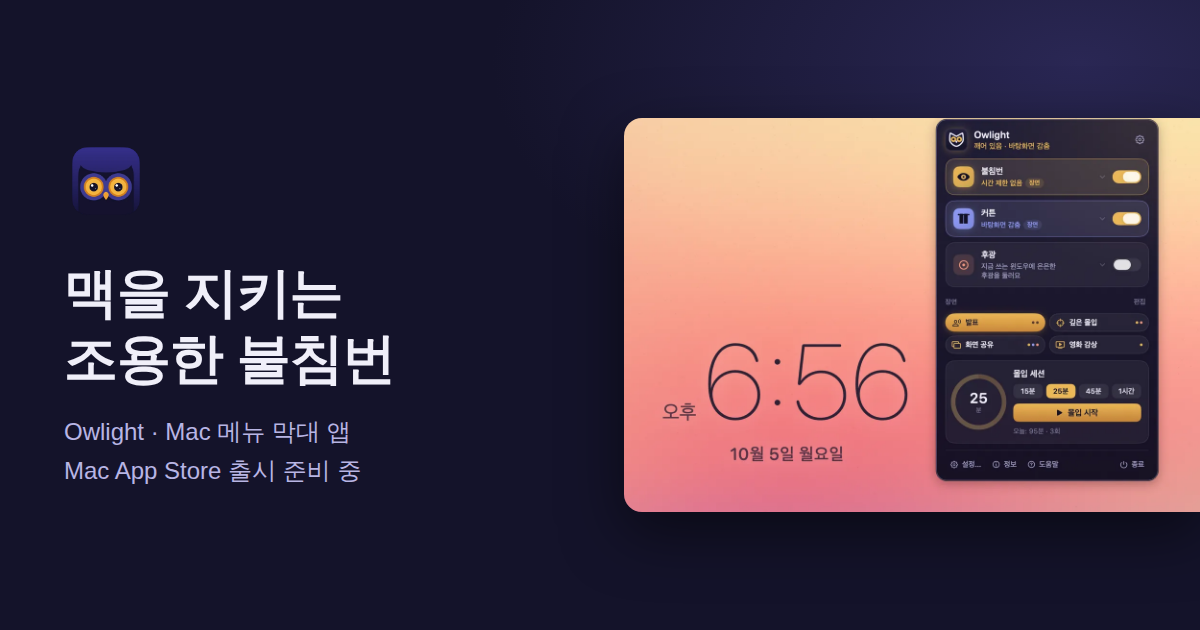
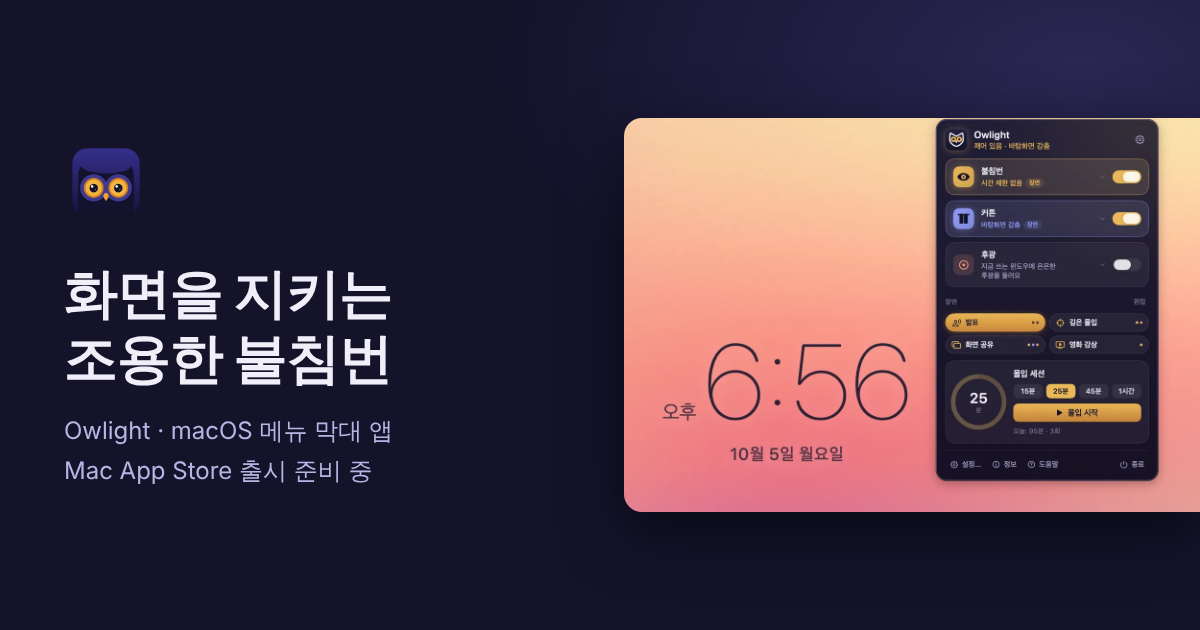
Owlight: Mac/맥 슬로건·소유격 문구를 App Store 메타데이터와 같게
App Store 심사 Guideline 5.2.5(Apple 상표)에 맞춰 부제를 '화면을 지키는 조용한 불침번' / 'A quiet night watch for you'로,
'맥·your Mac'은 컴퓨터·computer, 데이터 위치는 기기·device로 바꿈. owlight 소개·지원·방침,
lumenlab.page/owlight/ 지원·방침, 루멘랩 Owlight 카드·설명, 공유 사진(og.png) 포함.
Mac App Store, macOS 14 같은 사실 표기는 그대로.

Claude-Session: https://claude.ai/code/session_01EHCectJJ4WL5RY6tLHEwLo

Changed region(s): [[0.0617, 0.4222, 0.3392, 0.6032], [0.0308, 0.6635, 0.3392, 0.7841], [0.0617, 0.2714, 0.1233, 0.3317]]

diff --git a/owlight/index.html b/owlight/index.html
@@ -3,13 +3,13 @@
 <head>
 <meta charset="utf-8">
 <meta name="viewport" content="width=device-width, initial-scale=1, viewport-fit=cover">
-<title data-i18n="docTitle">Owlight · 맥을 지키는 조용한 불침번</title>
-<meta name="description" content="Owlight는 Mac 메뉴 막대 앱이에요. 맥이 잠들지 않게 깨워 두고(불침번), 바탕화면을 가리고(커튼), 지금 쓰는 창에만 빛을 비춰요(후광). 장면 하나로 한꺼번에 켜요. macOS 14 이상, US$5.99 한 번 구매, Mac App Store 출시 준비 중.">
+<title data-i18n="docTitle">Owlight · 화면을 지키는 조용한 불침번</title>
+<meta name="description" content="Owlight는 macOS 메뉴 막대 앱이에요. 컴퓨터가 잠들지 않게 깨워 두고(불침번), 바탕화면을 가리고(커튼), 지금 쓰는 창에만 빛을 비춰요(후광). 장면 하나로 한꺼번에 켜요. macOS 14 이상, US$5.99 한 번 구매, Mac App Store 출시 준비 중.">
 <link rel="canonical" href="https://owlight.lumenlab.page/">
 <meta property="og:type" content="website">
 <meta property="og:site_name" content="Owlight">
-<meta property="og:title" content="Owlight · 맥을 지키는 조용한 불침번">
-<meta property="og:description" content="메뉴 막대의 작은 부엉이가 맥을 깨워 두고, 바탕화면을 가리고, 지금 쓰는 창에만 빛을 비춰요. Mac App Store 출시 준비 중.">
+<meta property="og:title" content="Owlight · 화면을 지키는 조용한 불침번">
+<meta property="og:description" content="메뉴 막대의 작은 부엉이가 컴퓨터를 깨워 두고, 바탕화면을 가리고, 지금 쓰는 창에만 빛을 비춰요. Mac App Store 출시 준비 중.">
 <meta property="og:url" content="https://owlight.lumenlab.page/">
 <meta property="og:image" content="https://owlight.lumenlab.page/og.png">
 <meta name="twitter:card" content="summary_large_image">
@@ -58,9 +58,9 @@ if(l==='en'&&window.MutationObserver){var sw=function(e){['src','srcset'].forEac
   <section class="hero night" aria-labelledby="hero-title">
     <div class="wrap hero__in">
       <div class="hero__text">
-        <p class="kicker" data-i18n="heroKicker">Mac 메뉴 막대 앱</p>
-        <h1 id="hero-title" data-i18n="heroTitle">맥을 지키는 <span class="nw">조용한 불침번</span></h1>
-        <p class="lead" data-i18n="heroLead">메뉴 막대의 작은 부엉이가 맥을 깨워 두고, 바탕화면을 가리고, 지금 쓰는 창에만 빛을 비춰요. 하나씩 켜도 되고, ‘장면’ 하나로 한꺼번에 켜도 돼요.</p>
+        <p class="kicker" data-i18n="heroKicker">macOS 메뉴 막대 앱</p>
+        <h1 id="hero-title" data-i18n="heroTitle">화면을 지키는 <span class="nw">조용한 불침번</span></h1>
+        <p class="lead" data-i18n="heroLead">메뉴 막대의 작은 부엉이가 컴퓨터를 깨워 두고, 바탕화면을 가리고, 지금 쓰는 창에만 빛을 비춰요. 하나씩 켜도 되고, ‘장면’ 하나로 한꺼번에 켜도 돼요.</p>
         <div class="hero__act">
           <a class="btn" href="#scenes" data-i18n="heroCta">장면 직접 눌러 보기</a>
           <span class="status"><span class="status__dot" aria-hidden="true"></span><span data-i18n="status">Mac App Store 출시 준비 중</span></span>
@@ -69,7 +69,7 @@ if(l==='en'&&window.MutationObserver){var sw=function(e){['src','srcset'].forEac
       </div>
       <figure class="hero__shot">
         <img class="shot" data-shot="hero" src="/img/ko-hero-1200.webp" srcset="/img/ko-hero-640.webp 640w, /img/ko-hero-1200.webp 1200w" sizes="(min-width: 900px) 560px, 100vw" width="1200" height="820" alt="Owlight 메뉴 패널에서 장면 '발표'를 켠 화면. 불침번과 커튼 스위치가 켜져 있고 바탕화면엔 큰 시계가 떠 있다." data-i18n-alt="heroAlt" fetchpriority="high">
-        <figcaption data-i18n="heroCap">장면 ‘발표’를 누른 모습: 맥은 깨어 있고, 바탕화면엔 시계가 뜬 커튼이 드리워져요.</figcaption>
+        <figcaption data-i18n="heroCap">장면 ‘발표’를 누른 모습: 컴퓨터는 깨어 있고, 바탕화면엔 시계가 뜬 커튼이 드리워져요.</figcaption>
       </figure>
     </div>
   </section>
@@ -132,11 +132,11 @@ if(l==='en'&&window.MutationObserver){var sw=function(e){['src','srcset'].forEac
         <p class="feat__name"><svg class="feat__icon" aria-hidden="true"><use href="#i-nightwatch"/></svg><span data-i18n="nightwatch">불침번</span></p>
         <h2 id="nw-title" data-i18n="nwTitle">깨어 있어야 할 때만 <span class="nw">깨어 있게</span></h2>
         <ul class="points">
-          <li data-i18n="nw1">15분부터 4시간까지, 또는 끌 때까지 맥이 잠들지 않게 지켜요. 디스플레이까지 켜 둘지도 골라요.</li>
+          <li data-i18n="nw1">15분부터 4시간까지, 또는 끌 때까지 컴퓨터가 잠들지 않게 지켜요. 디스플레이까지 켜 둘지도 골라요.</li>
           <li data-i18n="nw2">충전기를 꽂았을 때, 정한 앱이 돌 때, 요일별 시간표에 맞춰 스스로 켜져요.</li>
           <li data-i18n="nw3">배터리가 정한 수준 아래로 내려가면 알아서 멈춰요.</li>
         </ul>
-        <p class="note" data-i18n="nwNote">자동 잠자기만 막아요. 덮개를 닫거나 직접 잠자기를 고르면 맥은 그대로 잠들어요.</p>
+        <p class="note" data-i18n="nwNote">자동 잠자기만 막아요. 덮개를 닫거나 직접 잠자기를 고르면 컴퓨터는 그대로 잠들어요.</p>
       </div>
       <figure class="feat__shot">
         <picture><source media="(max-width: 699px)" data-shot="3m" srcset="/img/ko-3m-800.webp" width="800" height="527"><img class="shot" data-shot="3" src="/img/ko-3-1600.webp" srcset="/img/ko-3-800.webp 800w, /img/ko-3-1600.webp 1600w" sizes="(min-width: 900px) 600px, 100vw" width="1600" height="912" alt="불침번 설정 화면: 기본 시간, 디스플레이 켜 두기, 배터리 지킴이와 멈출 배터리 잔량" data-i18n-alt="nwAlt" loading="lazy"></picture>
@@ -192,9 +192,9 @@ if(l==='en'&&window.MutationObserver){var sw=function(e){['src','srcset'].forEac
   <section class="privacy" aria-labelledby="pv-title">
     <div class="wrap">
       <div class="privacy__card">
-        <h2 id="pv-title" data-i18n="pvTitle">모든 게 <span class="nw">이 맥 안에서만 돌아가요</span></h2>
+        <h2 id="pv-title" data-i18n="pvTitle">모든 게 <span class="nw">이 기기 안에서만 돌아가요</span></h2>
         <ul class="points">
-          <li data-i18n="pv1">계정도, 분석 도구도, 광고도, 네트워크 접속도 없어요. 설정은 맥 밖으로 나가지 않아요.</li>
+          <li data-i18n="pv1">계정도, 분석 도구도, 광고도, 네트워크 접속도 없어요. 설정은 기기 밖으로 나가지 않아요.</li>
           <li data-i18n="pv2">Mac App Store 샌드박스 안에서 돌아가고, 손쉬운 사용이나 화면 기록 권한이 필요 없어요.</li>
         </ul>
         <a class="link" href="/privacy/" data-i18n="pvLink">개인정보 처리방침 전문 보기</a>
@@ -211,7 +211,7 @@ if(l==='en'&&window.MutationObserver){var sw=function(e){['src','srcset'].forEac
           <p data-i18n="a1">아니요. US$5.99에 한 번 사면 끝이에요. 구독도, 앱 안에서 따로 사는 것도 없어요. 한국 App Store에서는 Apple이 정한 원화 가격(약 8,800원)으로 보여요.</p>
         </details>
         <details>
-          <summary data-i18n="q2">어떤 맥에서 되나요?</summary>
+          <summary data-i18n="q2">어떤 컴퓨터에서 되나요?</summary>
           <p data-i18n="a2">macOS 14 Sonoma 이상이면 돼요. 메뉴 막대에 사는 앱이라 Dock에는 아이콘이 없어요. 한국어와 영어를 지원해요.</p>
         </details>
         <details>
@@ -220,7 +220,7 @@ if(l==='en'&&window.MutationObserver){var sw=function(e){['src','srcset'].forEac
         </details>
         <details>
           <summary data-i18n="q4">덮개를 닫아도 깨어 있나요?</summary>
-          <p data-i18n="a4">아니요. 불침번은 자동 잠자기만 막아요. 덮개를 닫거나, 잠자기를 직접 고르거나, 배터리가 아주 적거나, 열이 너무 높으면 맥은 그대로 잠들어요. 시간표가 잠든 맥을 깨우지도 않아요.</p>
+          <p data-i18n="a4">아니요. 불침번은 자동 잠자기만 막아요. 덮개를 닫거나, 잠자기를 직접 고르거나, 배터리가 아주 적거나, 열이 너무 높으면 컴퓨터는 그대로 잠들어요. 시간표가 잠든 컴퓨터를 깨우지도 않아요.</p>
         </details>
         <details>
           <summary data-i18n="q5">메뉴 막대에 부엉이가 안 보여요.</summary>

diff --git a/owlight/assets/i18n.js b/owlight/assets/i18n.js
@@ -3,7 +3,7 @@
    한국어 글을 고치면 여기 영어도 같이 고친다. */
 (function () {
   var EN = {
-    docTitle: 'Owlight · Your Mac’s quiet night watch',
+    docTitle: 'Owlight · A quiet night watch for you',
     skip: 'Skip to content',
     brandLabel: 'Owlight home',
     navLabel: 'On this page',
@@ -12,14 +12,14 @@
     navFaq: 'FAQ',
     navSupport: 'Support',
     privacy: 'Privacy Policy',
-    heroKicker: 'Menu bar app for Mac',
-    heroTitle: 'Your Mac’s <span class="nw">quiet night watch</span>',
-    heroLead: 'A small owl in your menu bar keeps your Mac awake, hides a busy desktop, and keeps light on the window you’re using. Switch each on by itself, or all at once with a Scene.',
+    heroKicker: 'Menu bar app for macOS',
+    heroTitle: 'A quiet night watch <span class="nw">for you</span>',
+    heroLead: 'A small owl in your menu bar keeps your computer awake, hides a busy desktop, and keeps light on the window you’re using. Switch each on by itself, or all at once with a Scene.',
     heroCta: 'Try a Scene below',
     status: 'Getting ready for the Mac App Store',
     heroMeta: '<span class="nw">US$5.99, one-time purchase</span> <span aria-hidden="true">·</span> <span class="nw">macOS 14 or later</span> <span aria-hidden="true">·</span> <span class="nw">English and Korean</span> <span aria-hidden="true">·</span> <span class="nw">No data collected</span>',
     heroAlt: 'The Owlight menu panel with the Presenting scene on: Nightwatch and Curtain are switched on and a large clock fills the desktop.',
-    heroCap: 'After clicking the Presenting scene: the Mac stays awake and a Curtain with a clock covers the desktop.',
+    heroCap: 'After clicking the Presenting scene: the computer stays awake and a Curtain with a clock covers the desktop.',
     nightwatch: 'Nightwatch',
     curtain: 'Curtain',
     halo: 'Halo',
@@ -47,10 +47,10 @@
     sg10: 'Tea terraces in the mist',
     ctNote: 'The ten scenery pictures were made with an AI image generator. They ship inside the app; the app itself does not generate images.',
     nwTitle: 'Awake exactly <span class="nw">when it should be</span>',
-    nw1: 'Keep your Mac from sleeping for 15 minutes to 4 hours, or until you switch it off. Choose whether the display stays on too.',
+    nw1: 'Keep your computer from sleeping for 15 minutes to 4 hours, or until you switch it off. Choose whether the display stays on too.',
     nw2: 'It can switch itself on while the charger is connected, while chosen apps run, or on a weekday schedule.',
     nw3: 'It steps back when the battery drops below the level you set.',
-    nwNote: 'Stops automatic sleep only. Closing the lid or choosing Sleep still puts your Mac to sleep.',
+    nwNote: 'Stops automatic sleep only. Closing the lid or choosing Sleep still puts the computer to sleep.',
     nwAlt: 'Nightwatch settings: default duration, keep display on, battery guard and the battery level to stop at',
     scKicker: 'Scenes',
     scTitle: 'One Scene, <span class="nw">every switch</span>',
@@ -71,19 +71,19 @@
     hkTitle: 'Shortcuts and links, your way',
     hkText: 'Set global keyboard shortcuts for every feature, Scene and Focus Session. From Shortcuts, launchers and scripts, use a link like this.',
     hkAlt: 'Shortcut settings: a shortcut field for Nightwatch, Curtain, Halo, Focus Session and each Scene',
-    pvTitle: 'Everything stays <span class="nw">on this Mac</span>',
-    pv1: 'No account, no analytics, no ads, no network access. Your settings never leave your Mac.',
+    pvTitle: 'Everything stays <span class="nw">on this device</span>',
+    pv1: 'No account, no analytics, no ads, no network access. Your settings never leave your device.',
     pv2: 'Runs inside the Mac App Store sandbox. No Accessibility or Screen Recording permission needed.',
     pvLink: 'Read the full Privacy Policy',
     faqTitle: 'Questions',
     q1: 'Is it a subscription?',
     a1: 'No. Buy it once for US$5.99. There is no subscription and no in-app purchase. The App Store shows the price in your local currency, set by Apple.',
-    q2: 'Which Macs does it run on?',
+    q2: 'Which computers does it run on?',
     a2: 'macOS 14 Sonoma or later. It lives in the menu bar, so there is no Dock icon. Available in English and Korean.',
     q3: 'Which permissions does it need?',
     a3: 'No Accessibility or Screen Recording permission. Halo looks only at window positions and sizes, never at window titles or screen contents. It may ask for notification permission if you use notifications.',
-    q4: 'Does my Mac stay awake with the lid closed?',
-    a4: 'No. Nightwatch stops automatic sleep only. Closing the lid, choosing Sleep, a very low battery or overheating still put a Mac to sleep, and a schedule can’t wake a sleeping Mac.',
+    q4: 'Does the computer stay awake with the lid closed?',
+    a4: 'No. Nightwatch stops automatic sleep only. Closing the lid, choosing Sleep, a very low battery or overheating still put the computer to sleep, and a schedule can’t wake a sleeping computer.',
     q5: 'I can’t see the owl in the menu bar.',
     a5: 'The notch or a crowded menu bar may be hiding it. Open Owlight again to get its settings window, where every feature can be switched on and off.',
     q6: 'When can I get it?',

diff --git a/lumenlab/owlight/privacy/index.html b/lumenlab/owlight/privacy/index.html
@@ -63,12 +63,12 @@
 
 <h3>4. 기기에 저장되는 정보</h3>
 <ul>
-  <li><strong>설정:</strong> 기능 설정(시간, 모양, 자동 켜기 조건, 장면, 단축키, 오늘의 몰입 세션 기록 등)은 macOS의 UserDefaults를 통해 <strong>사용자의 Mac 안, 앱 전용 샌드박스 공간에만</strong> 저장되며 Mac 밖으로 나가지 않습니다.</li>
-  <li><strong>커튼 이미지:</strong> 사용자가 커튼 배경으로 고른 이미지는 <strong>Mac 밖으로 나가지 않습니다.</strong> 앱은 파일을 복사하거나 업로드하지 않고, 다음 실행 때 같은 파일을 다시 열 수 있도록 macOS의 보안 범위 북마크만 설정에 저장합니다.</li>
+  <li><strong>설정:</strong> 기능 설정(시간, 모양, 자동 켜기 조건, 장면, 단축키, 오늘의 몰입 세션 기록 등)은 macOS의 UserDefaults를 통해 <strong>사용자의 기기 안, 앱 전용 샌드박스 공간에만</strong> 저장되며 기기 밖으로 나가지 않습니다.</li>
+  <li><strong>커튼 이미지:</strong> 사용자가 커튼 배경으로 고른 이미지는 <strong>기기 밖으로 나가지 않습니다.</strong> 앱은 파일을 복사하거나 업로드하지 않고, 다음 실행 때 같은 파일을 다시 열 수 있도록 macOS의 보안 범위 북마크만 설정에 저장합니다.</li>
 </ul>
 
 <h3>5. 앱이 확인하는 시스템 정보</h3>
-<p>기능을 제공하기 위해 앱은 Mac 안에서만 다음 정보를 읽습니다. 이 정보는 저장하거나 외부로 보내지 않습니다.</p>
+<p>기능을 제공하기 위해 앱은 기기 안에서만 다음 정보를 읽습니다. 이 정보는 저장하거나 외부로 보내지 않습니다.</p>
 <ul>
   <li>배터리 잔량과 전원 어댑터 연결 여부(불침번의 배터리 지킴이, 충전 중 자동 켜기)</li>
   <li>실행 중인 앱 목록과 맨 앞의 앱(자동 켜기 조건, 후광이 비출 윈도우 찾기). 윈도우의 위치와 크기만 확인하며, 윈도우 제목이나 화면 내용은 읽거나 녹화하지 않습니다.</li>
@@ -101,14 +101,14 @@
 <h3>3. Network</h3>
 <p>The app <strong>does not access the network.</strong> It sends no information to our servers or anyone else’s. (The “Privacy Policy” link inside the app opens this page in your default web browser, which handles that connection.)</p>
 
-<h3>4. Information stored on your Mac</h3>
+<h3>4. Information stored on your device</h3>
 <ul>
-  <li><strong>Settings:</strong> Your preferences (durations, appearance, automatic triggers, scenes, shortcuts and today’s Focus Session totals) are stored with macOS UserDefaults, <strong>only on your Mac, inside the app’s own sandbox container,</strong> and never leave it.</li>
-  <li><strong>Curtain image:</strong> An image you choose as the Curtain background <strong>stays on your Mac.</strong> The app never copies or uploads the file; it only keeps a macOS security-scoped bookmark in its settings so it can open the same file again next time.</li>
+  <li><strong>Settings:</strong> Your preferences (durations, appearance, automatic triggers, scenes, shortcuts and today’s Focus Session totals) are stored with macOS UserDefaults, <strong>only on your device, inside the app’s own sandbox container,</strong> and never leave it.</li>
+  <li><strong>Curtain image:</strong> An image you choose as the Curtain background <strong>stays on your device.</strong> The app never copies or uploads the file; it only keeps a macOS security-scoped bookmark in its settings so it can open the same file again next time.</li>
 </ul>
 
 <h3>5. System information the app reads</h3>
-<p>To provide its features, the app reads the following on your Mac only. None of it is stored or sent anywhere.</p>
+<p>To provide its features, the app reads the following on your device only. None of it is stored or sent anywhere.</p>
 <ul>
   <li>Battery level and whether a power adapter is connected (Nightwatch battery guard, “while charging”).</li>
   <li>Which apps are running and which one is in front (automatic triggers, finding the window Halo highlights). Only window positions and sizes are used; window titles and screen contents are never read or recorded.</li>

diff --git a/owlight/privacy/index.html b/owlight/privacy/index.html
@@ -68,12 +68,12 @@
 
 <h3>4. 기기에 저장되는 정보</h3>
 <ul>
-  <li><strong>설정:</strong> 기능 설정(시간, 모양, 자동 켜기 조건, 장면, 단축키, 오늘의 몰입 세션 기록 등)은 macOS의 UserDefaults를 통해 <strong>사용자의 Mac 안, 앱 전용 샌드박스 공간에만</strong> 저장되며 Mac 밖으로 나가지 않습니다.</li>
-  <li><strong>커튼 이미지:</strong> 사용자가 커튼 배경으로 고른 이미지는 <strong>Mac 밖으로 나가지 않습니다.</strong> 앱은 파일을 복사하거나 업로드하지 않고, 다음 실행 때 같은 파일을 다시 열 수 있도록 macOS의 보안 범위 북마크만 설정에 저장합니다.</li>
+  <li><strong>설정:</strong> 기능 설정(시간, 모양, 자동 켜기 조건, 장면, 단축키, 오늘의 몰입 세션 기록 등)은 macOS의 UserDefaults를 통해 <strong>사용자의 기기 안, 앱 전용 샌드박스 공간에만</strong> 저장되며 기기 밖으로 나가지 않습니다.</li>
+  <li><strong>커튼 이미지:</strong> 사용자가 커튼 배경으로 고른 이미지는 <strong>기기 밖으로 나가지 않습니다.</strong> 앱은 파일을 복사하거나 업로드하지 않고, 다음 실행 때 같은 파일을 다시 열 수 있도록 macOS의 보안 범위 북마크만 설정에 저장합니다.</li>
 </ul>
 
 <h3>5. 앱이 확인하는 시스템 정보</h3>
-<p>기능을 제공하기 위해 앱은 Mac 안에서만 다음 정보를 읽습니다. 이 정보는 저장하거나 외부로 보내지 않습니다.</p>
+<p>기능을 제공하기 위해 앱은 기기 안에서만 다음 정보를 읽습니다. 이 정보는 저장하거나 외부로 보내지 않습니다.</p>
 <ul>
   <li>배터리 잔량과 전원 어댑터 연결 여부(불침번의 배터리 지킴이, 충전 중 자동 켜기)</li>
   <li>실행 중인 앱 목록과 맨 앞의 앱(자동 켜기 조건, 후광이 비출 윈도우 찾기). 윈도우의 위치와 크기만 확인하며, 윈도우 제목이나 화면 내용은 읽거나 녹화하지 않습니다.</li>
@@ -106,14 +106,14 @@
 <h3>3. Network</h3>
 <p>The app <strong>does not access the network.</strong> It sends no information to our servers or anyone else’s. (The “Privacy Policy” link inside the app opens this page in your default web browser, which handles that connection.)</p>
 
-<h3>4. Information stored on your Mac</h3>
+<h3>4. Information stored on your device</h3>
 <ul>
-  <li><strong>Settings:</strong> Your preferences (durations, appearance, automatic triggers, scenes, shortcuts and today’s Focus Session totals) are stored with macOS UserDefaults, <strong>only on your Mac, inside the app’s own sandbox container,</strong> and never leave it.</li>
-  <li><strong>Curtain image:</strong> An image you choose as the Curtain background <strong>stays on your Mac.</strong> The app never copies or uploads the file; it only keeps a macOS security-scoped bookmark in its settings so it can open the same file again next time.</li>
+  <li><strong>Settings:</strong> Your preferences (durations, appearance, automatic triggers, scenes, shortcuts and today’s Focus Session totals) are stored with macOS UserDefaults, <strong>only on your device, inside the app’s own sandbox container,</strong> and never leave it.</li>
+  <li><strong>Curtain image:</strong> An image you choose as the Curtain background <strong>stays on your device.</strong> The app never copies or uploads the file; it only keeps a macOS security-scoped bookmark in its settings so it can open the same file again next time.</li>
 </ul>
 
 <h3>5. System information the app reads</h3>
-<p>To provide its features, the app reads the following on your Mac only. None of it is stored or sent anywhere.</p>
+<p>To provide its features, the app reads the following on your device only. None of it is stored or sent anywhere.</p>
 <ul>
   <li>Battery level and whether a power adapter is connected (Nightwatch battery guard, “while charging”).</li>
   <li>Which apps are running and which one is in front (automatic triggers, finding the window Halo highlights). Only window positions and sizes are used; window titles and screen contents are never read or recorded.</li>

diff --git a/lumenlab/en/index.html b/lumenlab/en/index.html
@@ -4,7 +4,7 @@
 <meta charset="utf-8">
 <meta name="viewport" content="width=device-width, initial-scale=1, viewport-fit=cover">
 <title data-i18n="docTitle">Lumen Lab · Apps and free web tools</title>
-<meta name="description" content="Lumen Lab makes small apps and free web tools: Owlight (a menu bar app for Mac), SetNote (a workout log), Daycount, Inplace and a scientific calculator. Support pages and privacy policies for our apps.">
+<meta name="description" content="Lumen Lab makes small apps and free web tools: Owlight (a menu bar app for macOS), SetNote (a workout log), Daycount, Inplace and a scientific calculator. Support pages and privacy policies for our apps.">
 <!-- 구글 서치 콘솔 소유 확인(lumenlab.page). 지우면 확인이 풀린다 -->
 <meta name="google-site-verification" content="5wk0foAz4naKCTO0IuAf1aklHWTSIPggcePVQiEMakE">
 <link rel="canonical" href="https://lumenlab.page/en/">
@@ -15,7 +15,7 @@
 <meta property="og:locale" content="en_US">
 <meta property="og:site_name" content="Lumen Lab">
 <meta property="og:title" content="Lumen Lab · Apps and free web tools">
-<meta property="og:description" content="Lumen Lab makes small apps and free web tools: Owlight (a menu bar app for Mac), SetNote (a workout log), Daycount, Inplace and a scientific calculator. Support pages and privacy policies for our apps.">
+<meta property="og:description" content="Lumen Lab makes small apps and free web tools: Owlight (a menu bar app for macOS), SetNote (a workout log), Daycount, Inplace and a scientific calculator. Support pages and privacy policies for our apps.">
 <meta property="og:url" content="https://lumenlab.page/en/">
 <meta property="og:image" content="https://lumenlab.page/og.png">
 <meta name="twitter:card" content="summary_large_image">
@@ -83,9 +83,9 @@
           <img class="icon" src="/img/owlight.webp" width="64" height="64" alt="">
           <div class="app__body">
             <h3 class="app__name" data-i18n="c_owlight_name">Owlight</h3>
-            <p class="app__kind" data-i18n="c_owlight_kind">Menu bar app for Mac <span aria-hidden="true">·</span> <span class="nw">macOS 14 or later</span></p>
+            <p class="app__kind" data-i18n="c_owlight_kind">Menu bar app for macOS <span aria-hidden="true">·</span> <span class="nw">macOS 14 or later</span></p>
             <p class="app__status"><span data-i18n="c_owlight_status">Getting ready for the App Store</span></p>
-            <p class="app__line" data-i18n="c_owlight_line">Keep your Mac awake, cover the desktop, highlight the front-most window and more, right from the menu bar.</p>
+            <p class="app__line" data-i18n="c_owlight_line">Keep your computer awake, cover the desktop, highlight the front-most window and more, right from the menu bar.</p>
             <p class="app__links">
               <a class="chip chip--go" href="https://owlight.lumenlab.page/" data-i18n="c_owlight_l0">What it does</a>
               <a class="chip" href="https://owlight.lumenlab.page/support/#en" data-i18n="c_owlight_l1">Support</a>

diff --git a/lumenlab/assets/i18n.js b/lumenlab/assets/i18n.js
@@ -4,7 +4,7 @@
 (function () {
   var EN = {
     docTitle: 'Lumen Lab · Apps and free web tools',
-    metaDesc: 'Lumen Lab makes small apps and free web tools: Owlight (a menu bar app for Mac), SetNote (a workout log), Daycount, Inplace and a scientific calculator. Support pages and privacy policies for our apps.',
+    metaDesc: 'Lumen Lab makes small apps and free web tools: Owlight (a menu bar app for macOS), SetNote (a workout log), Daycount, Inplace and a scientific calculator. Support pages and privacy policies for our apps.',
     brandLabel: 'Lumen Lab home',
     skip: 'Skip to content',
     navLabel: 'Site',
@@ -35,10 +35,10 @@
     sh_apps_names: "Owlight · SetNote",
     sh_tools_n: "9 tools",
     sh_tools_names: "Calculate · Text and files · Devices, practice and groups",
-    c_owlight_kind: "Menu bar app for Mac <span aria-hidden=\"true\">·</span> <span class=\"nw\">macOS 14 or later</span>",
+    c_owlight_kind: "Menu bar app for macOS <span aria-hidden=\"true\">·</span> <span class=\"nw\">macOS 14 or later</span>",
     c_owlight_name: "Owlight",
     c_owlight_status: "Getting ready for the App Store",
-    c_owlight_line: "Keep your Mac awake, cover the desktop, highlight the front-most window and more, right from the menu bar.",
+    c_owlight_line: "Keep your computer awake, cover the desktop, highlight the front-most window and more, right from the menu bar.",
     c_owlight_l0: "What it does",
     c_owlight_l1: "Support",
     c_owlight_l2: "Privacy Policy",
@@ -88,7 +88,7 @@
     owlLead: 'No Dock icon. It collects no personal data and never connects to the internet.',
     panelLabel: 'Example of the Owlight menu',
     example: 'Example',
-    f1: 'Nightwatch', f1d: 'Keep your Mac from sleeping',
+    f1: 'Nightwatch', f1d: 'Keep your computer from sleeping',
     f2: 'Curtain', f2d: 'Cover desktop icons and widgets',
     f3: 'Halo', f3d: 'Front-most window sharp, the rest dimmed',
     f4: 'Scenes', f4d: 'Switch several features on at once',

diff --git a/lumenlab/index.html b/lumenlab/index.html
@@ -4,7 +4,7 @@
 <meta charset="utf-8">
 <meta name="viewport" content="width=device-width, initial-scale=1, viewport-fit=cover">
 <title data-i18n="docTitle">Lumen Lab 루멘랩 · 앱과 무료 웹 도구</title>
-<meta name="description" content="Lumen Lab(루멘랩)이 만든 앱 Owlight(Mac 메뉴 막대 앱), 세트노트(헬스 기록 웹앱)의 사용 안내, 자주 묻는 질문, 개인정보 처리방침과 며칠 계산기 같은 무료 웹 도구 모음. Support and privacy policy for Owlight and SetNote.">
+<meta name="description" content="Lumen Lab(루멘랩)이 만든 앱 Owlight(macOS 메뉴 막대 앱), 세트노트(헬스 기록 웹앱)의 사용 안내, 자주 묻는 질문, 개인정보 처리방침과 며칠 계산기 같은 무료 웹 도구 모음. Support and privacy policy for Owlight and SetNote.">
 <!-- 구글 서치 콘솔 소유 확인(lumenlab.page). 지우면 확인이 풀린다 -->
 <meta name="google-site-verification" content="5wk0foAz4naKCTO0IuAf1aklHWTSIPggcePVQiEMakE">
 <link rel="canonical" href="https://lumenlab.page/">
@@ -82,7 +82,7 @@
           <img class="icon" src="/img/owlight.webp" width="64" height="64" alt="">
           <div class="app__body">
             <h3 class="app__name" data-i18n="c_owlight_name">Owlight</h3>
-            <p class="app__kind" data-i18n="c_owlight_kind">Mac 메뉴 막대 앱 <span aria-hidden="true">·</span> <span class="nw">macOS 14 이상</span></p>
+            <p class="app__kind" data-i18n="c_owlight_kind">macOS 메뉴 막대 앱 <span aria-hidden="true">·</span> <span class="nw">macOS 14 이상</span></p>
             <p class="app__status"><span data-i18n="c_owlight_status">App Store 출시 준비 중</span></p>
             <p class="app__line" data-i18n="c_owlight_line">잠자기 방지, 바탕화면 가리기, 맨 앞 창 강조 같은 기능을 메뉴 막대에서 켜고 꺼요.</p>
             <p class="app__links">

diff --git a/lumenlab/owlight/support/index.html b/lumenlab/owlight/support/index.html
@@ -49,7 +49,7 @@
 <div class="wrap doc">
 <section id="ko" lang="ko">
 <h2>한국어</h2>
-<p>Owlight는 Mac의 메뉴 막대에서 잠자기 방지(불침번), 바탕화면 가리기(커튼), 앞 창 강조(후광), 장면, 몰입 세션을 제공하는 앱입니다. macOS 14 Sonoma 이상에서 동작합니다.</p>
+<p>Owlight는 macOS 메뉴 막대에서 잠자기 방지(불침번), 바탕화면 가리기(커튼), 앞 창 강조(후광), 장면, 몰입 세션을 제공하는 앱입니다. macOS 14 Sonoma 이상에서 동작합니다.</p>
 <h3>문의</h3>
 <p>궁금한 점이나 문제가 있으면 이메일로 알려 주세요: <a href="mailto:woxocoso@gmail.com">woxocoso@gmail.com</a><br>macOS 버전과 어떤 상황에서 문제가 생겼는지 함께 적어 주시면 더 빨리 도와드릴 수 있습니다.</p>
 <h3>자주 묻는 질문</h3>
@@ -61,7 +61,7 @@
 
 <section id="en" lang="en">
 <h2>English</h2>
-<p>Owlight is a Mac menu bar app for keeping your Mac awake (Nightwatch), covering the desktop (Curtain), highlighting the front window (Halo), Scenes and Focus Sessions. It requires macOS 14 Sonoma or later.</p>
+<p>Owlight is a macOS menu bar app for keeping your computer awake (Nightwatch), covering the desktop (Curtain), highlighting the front window (Halo), Scenes and Focus Sessions. It requires macOS 14 Sonoma or later.</p>
 <h3>Contact</h3>
 <p>For questions or problems, email <a href="mailto:woxocoso@gmail.com">woxocoso@gmail.com</a>.<br>Including your macOS version and what you were doing when the problem happened helps us help you faster.</p>
 <h3>FAQ</h3>

diff --git a/owlight/support/index.html b/owlight/support/index.html
@@ -54,7 +54,7 @@
 <div class="wrap doc">
 <section id="ko" lang="ko">
 <h2>한국어</h2>
-<p>Owlight는 Mac의 메뉴 막대에서 잠자기 방지(불침번), 바탕화면 가리기(커튼), 앞 창 강조(후광), 장면, 몰입 세션을 제공하는 앱입니다. macOS 14 Sonoma 이상에서 동작합니다.</p>
+<p>Owlight는 macOS 메뉴 막대에서 잠자기 방지(불침번), 바탕화면 가리기(커튼), 앞 창 강조(후광), 장면, 몰입 세션을 제공하는 앱입니다. macOS 14 Sonoma 이상에서 동작합니다.</p>
 <h3>문의</h3>
 <p>궁금한 점이나 문제가 있으면 이메일로 알려 주세요: <a href="mailto:woxocoso@gmail.com">woxocoso@gmail.com</a><br>macOS 버전과 어떤 상황에서 문제가 생겼는지 함께 적어 주시면 더 빨리 도와드릴 수 있습니다.</p>
 <h3>자주 묻는 질문</h3>
@@ -66,7 +66,7 @@
 
 <section id="en" lang="en">
 <h2>English</h2>
-<p>Owlight is a Mac menu bar app for keeping your Mac awake (Nightwatch), covering the desktop (Curtain), highlighting the front window (Halo), Scenes and Focus Sessions. It requires macOS 14 Sonoma or later.</p>
+<p>Owlight is a macOS menu bar app for keeping your computer awake (Nightwatch), covering the desktop (Curtain), highlighting the front window (Halo), Scenes and Focus Sessions. It requires macOS 14 Sonoma or later.</p>
 <h3>Contact</h3>
 <p>For questions or problems, email <a href="mailto:woxocoso@gmail.com">woxocoso@gmail.com</a>.<br>Including your macOS version and what you were doing when the problem happened helps us help you faster.</p>
 <h3>FAQ</h3>

diff --git a/owlight/_dev/og.html b/owlight/_dev/og.html
@@ -8,6 +8,6 @@ body{margin:0;width:1200px;height:630px;overflow:hidden;background:radial-gradie
 .og .shot{width:640px;border-radius:18px 0 0 18px;box-shadow:0 20px 60px rgba(0,0,0,.5)}
 </style></head><body><div class="og"><div>
 <img class="icon" src="/img/owlight-256.webp" width="84" height="84" alt="">
-<h1>맥을 지키는<br>조용한 불침번</h1>
-<p>Owlight · Mac 메뉴 막대 앱<br>Mac App Store 출시 준비 중</p></div>
+<h1>화면을 지키는<br>조용한 불침번</h1>
+<p>Owlight · macOS 메뉴 막대 앱<br>Mac App Store 출시 준비 중</p></div>
 <img class="shot" src="/img/ko-hero-1200.webp" alt=""></div></body></html>
